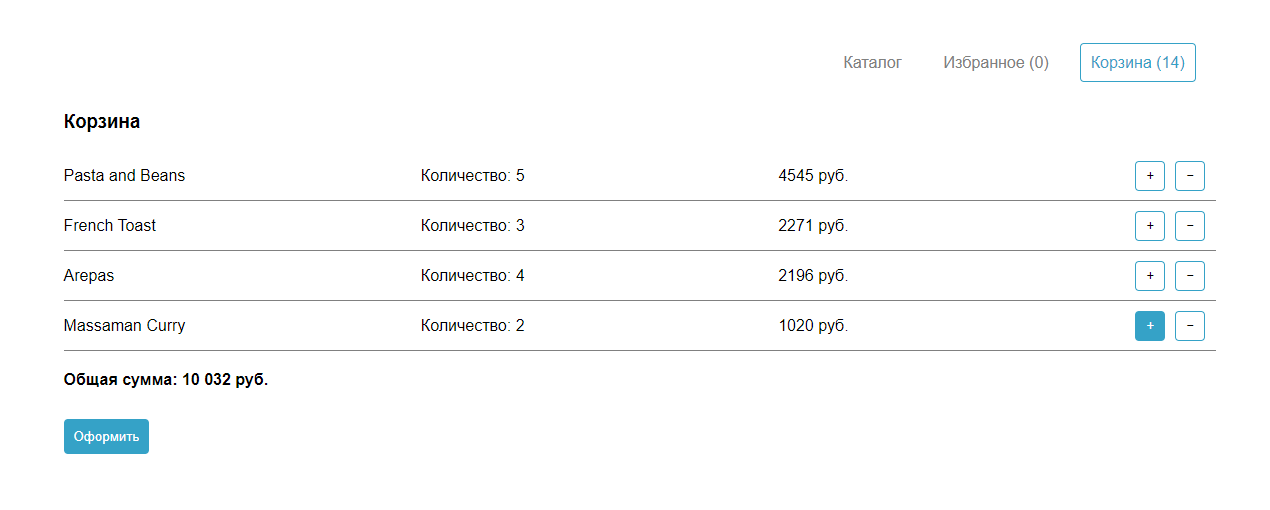
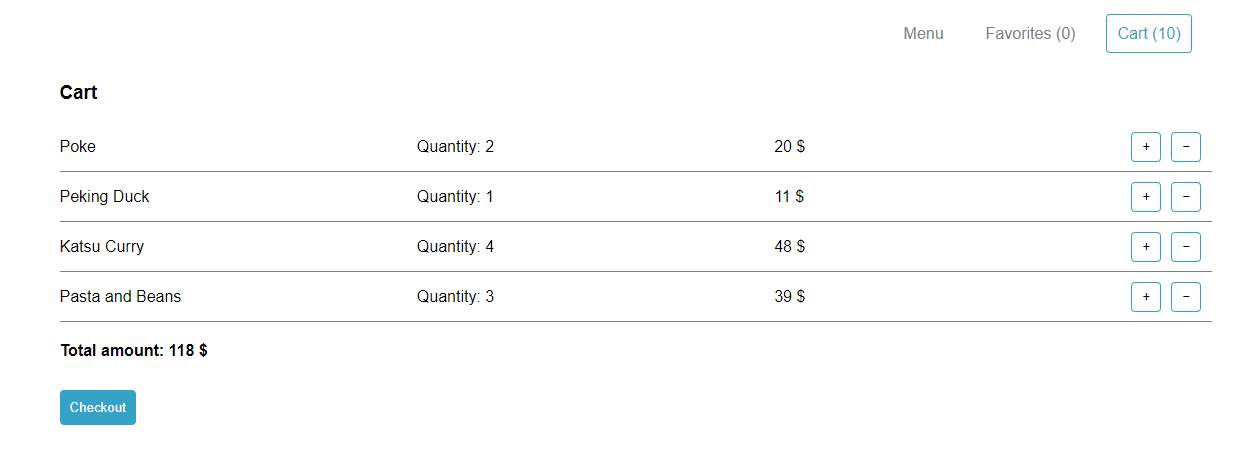
changed readme

diff --git a/src/store/index.js b/src/store/index.js
@@ -1,7 +1,7 @@
-import Vue from 'vue'
-import Vuex from 'vuex'
+import Vue from "vue";
+import Vuex from "vuex";
 
-Vue.use(Vuex)
+Vue.use(Vuex);
 
 const state = {
   products: [],
@@ -11,86 +11,86 @@ const state = {
     6123150777, 6126039472, 6126040354, 6128597660, 6134992334, 6136170572,
     6136172483, 6140906765, 6142673815, 6142681673, 6142683276, 6148226736,
   ],
-}
+};
 
 const getters = {
   total(state, getters) {
     return getters.cartProducts.reduce((total, p) => {
-      return total + p.price * p.quantity
-    }, 0)
+      return total + p.price * p.quantity;
+    }, 0);
   },
   cartProducts: (state) => {
-    return state.products.filter((p) => p.quantity !== 0)
+    return state.products.filter((p) => p.quantity !== 0);
   },
   likedProducts: (state) => {
-    return state.products.filter((p) => p.liked === 'yes')
+    return state.products.filter((p) => p.liked === "yes");
   },
   itemsInCart: (state, getters) => {
     return getters.cartProducts.reduce(
       (accum, item) => accum + item.quantity,
       0
-    )
+    );
   },
   itemsInLiked(state, getters) {
-    return getters.likedProducts.length
+    return getters.likedProducts.length;
   },
-}
+};
 
 const actions = {
   async getProducts({ commit }) {
     let response = await fetch(
-      'https://random-data-api.com/api/food/random_food?size=30'
-    )
+      "https://random-data-api.com/api/food/random_food?size=30"
+    );
     if (response.ok) {
-      let json = await response.json()
-      commit('allProducts', json)
+      let json = await response.json();
+      commit("allProducts", json);
     } else {
-      alert('Ошибка HTTP: ' + response.status)
+      alert("Ошибка HTTP: " + response.status);
     }
   },
-}
+};
 
 const mutations = {
   allProducts: (state, payload) => {
     payload.forEach((el) => {
-      el.price = Math.floor(Math.random() * 500 + 500)
-      el.quantity = 0
-      let rand = Math.floor(Math.random() * state.images.length)
-      el.src = 'images/' + state.images[rand] + '.webp'
-      el.liked = 'no'
-    })
-    state.products = payload
+      el.price = Math.floor(Math.random() * 5 + 10);
+      el.quantity = 0;
+      let rand = Math.floor(Math.random() * state.images.length);
+      el.src = "images/" + state.images[rand] + ".webp";
+      el.liked = "no";
+    });
+    state.products = payload;
   },
 
   addToCart: (state, product) => {
-    const item = state.products.find((p) => p.id === product.id)
-    item.quantity++
+    const item = state.products.find((p) => p.id === product.id);
+    item.quantity++;
   },
 
   removeFromCart: (state, product) => {
-    const item = state.products.find((p) => p.id === product.id)
+    const item = state.products.find((p) => p.id === product.id);
     if (item.quantity > 1) {
-      item.quantity--
+      item.quantity--;
     } else {
-      item.quantity = 0
+      item.quantity = 0;
     }
   },
 
   addToLiked: (state, product) => {
-    const item = state.products.find((p) => p.id === product.id)
+    const item = state.products.find((p) => p.id === product.id);
     if (item) {
-      item.liked = 'yes'
+      item.liked = "yes";
     }
   },
   removeFromLiked: (state, product) => {
-    const item = state.products.find((p) => p.id === product.id)
-    item.liked = 'no'
+    const item = state.products.find((p) => p.id === product.id);
+    item.liked = "no";
   },
-}
+};
 
 export default new Vuex.Store({
   state,
   getters,
   actions,
   mutations,
-})
+});

diff --git a/src/components/Products.vue b/src/components/Products.vue
@@ -4,7 +4,7 @@
       <li v-for="product in products" :key="product.uid" class="product_item">
         <img :src="product.src" class="item_image" />
         <span class="item_name">{{ product.dish }}</span>
-        <span class="item_price">{{ product.price + " руб." }}</span>
+        <span class="item_price">{{ product.price + " $" }}</span>
 
         <div class="product_actions">
           <button
@@ -13,7 +13,7 @@
             class="button item_button add_button"
             @click="addToCart(product)"
           >
-            Добавить
+            Add
           </button>
           <div v-else>
             <button
@@ -41,7 +41,20 @@
             class="button item_button like_button"
             @click="addToLiked(product)"
           >
-            В избранное
+            <svg
+              xmlns="http://www.w3.org/2000/svg"
+              aria-hidden="true"
+              role="img"
+              width="2em"
+              height="2em"
+              preserveAspectRatio="xMidYMid meet"
+              viewBox="0 0 48 48"
+            >
+              <path
+                fill="#FFCDD2"
+                d="M34 9c-4.2 0-7.9 2.1-10 5.4C21.9 11.1 18.2 9 14 9C7.4 9 2 14.4 2 21c0 11.9 22 24 22 24s22-12 22-24c0-6.6-5.4-12-12-12z"
+              />
+            </svg>
           </button>
           <button
             v-if="product.liked === 'yes'"
@@ -49,7 +62,20 @@
             class="button item_button remove_like_button"
             @click="removeFromLiked(product)"
           >
-            Удалить из избранного
+            <svg
+              xmlns="http://www.w3.org/2000/svg"
+              aria-hidden="true"
+              role="img"
+              width="2em"
+              height="2em"
+              preserveAspectRatio="xMidYMid meet"
+              viewBox="0 0 48 48"
+            >
+              <path
+                fill="#F44336"
+                d="M34 9c-4.2 0-7.9 2.1-10 5.4C21.9 11.1 18.2 9 14 9C7.4 9 2 14.4 2 21c0 11.9 22 24 22 24s22-12 22-24c0-6.6-5.4-12-12-12z"
+              />
+            </svg>
           </button>
         </div>
       </li>
@@ -108,13 +134,12 @@ export default {
   padding: 10px;
 }
 .button {
-  background: #fff;
-  border: 1px solid #35a2c7;
   border-radius: 4px;
-}
-.button:hover {
   background: #35a2c7;
   color: #fff;
+  border: none;
+}
+.button:hover {
   border: none;
   cursor: pointer;
 }
@@ -133,10 +158,15 @@ export default {
   width: 30px;
   height: 30px;
 }
-.remove_like_button,
-.like_button,
+
 .add_button {
   width: 120px;
   height: 42px;
+}
+.remove_like_button,
+.like_button {
+  width: 42px;
+  height: 42px;
+  background-color: transparent;
 }
 </style>

diff --git a/src/components/Liked.vue b/src/components/Liked.vue
@@ -1,10 +1,10 @@
 <template>
   <div>
-    <h3 class="title">Избранные товары</h3>
+    <h3 class="title">Favorite products</h3>
 
     <div v-show="!products.length">
-      <p>У вас пока нет избранных товаров!</p>
-      <router-link to="/">Перейти в каталог</router-link>
+      <p>You don't have any favorite products yet!</p>
+      <router-link to="/">Go to catalog</router-link>
     </div>
 
     <div v-show="products.length">
@@ -21,7 +21,7 @@
               class="button item_button add_button"
               @click="addToCart(product)"
             >
-              Добавить
+              Add
             </button>
             <div v-else>
               <button
@@ -48,7 +48,20 @@
               class="button item_button remove_like_button"
               @click="removeFromLiked(product)"
             >
-              Удалить из избранного
+              <svg
+                xmlns="http://www.w3.org/2000/svg"
+                aria-hidden="true"
+                role="img"
+                width="2em"
+                height="2em"
+                preserveAspectRatio="xMidYMid meet"
+                viewBox="0 0 48 48"
+              >
+                <path
+                  fill="#F44336"
+                  d="M34 9c-4.2 0-7.9 2.1-10 5.4C21.9 11.1 18.2 9 14 9C7.4 9 2 14.4 2 21c0 11.9 22 24 22 24s22-12 22-24c0-6.6-5.4-12-12-12z"
+                />
+              </svg>
             </button>
           </div>
         </li>
@@ -103,13 +116,12 @@ export default {
   padding: 10px;
 }
 .button {
-  background: #fff;
-  border: 1px solid #35a2c7;
   border-radius: 4px;
-}
-.button:hover {
   background: #35a2c7;
   color: #fff;
+  border: none;
+}
+.button:hover {
   border: none;
   cursor: pointer;
 }
@@ -128,10 +140,16 @@ export default {
 .remove_button {
   width: 30px;
 }
-.remove_like_button,
-.like_button,
+
 .add_button {
   width: 120px;
   height: 42px;
+}
+
+.remove_like_button,
+.like_button {
+  width: 42px;
+  height: 42px;
+  background-color: transparent;
 }
 </style>

diff --git a/src/components/Cart.vue b/src/components/Cart.vue
@@ -1,9 +1,9 @@
 <template>
   <div>
-    <h3>Корзина</h3>
+    <h3>Cart</h3>
     <div v-show="!products.length">
-      <p>Ваша корзина пуста!</p>
-      <router-link to="/">Продолжить покупки</router-link>
+      <p>Your cart is empty!</p>
+      <router-link to="/">Continue shopping</router-link>
     </div>
 
     <div v-show="products.length">
@@ -11,8 +11,8 @@
         <div v-for="p in products" :key="p.uid">
           <div class="cart_item">
             <span>{{ p.dish }}</span>
-            <span>Количество: {{ p.quantity }}</span>
-            <span> {{ p.price * p.quantity }} руб.</span>
+            <span>Quantity: {{ p.quantity }}</span>
+            <span> {{ p.price * p.quantity }} $ </span>
             <div>
               <button
                 type="button"
@@ -33,13 +33,13 @@
         </div>
       </div>
       <span class="total"
-        >Общая сумма:
-        {{ new Intl.NumberFormat("ru-RU").format(total) }} руб.</span
+        >Total amount:
+        {{ new Intl.NumberFormat("ru-RU").format(total) }} $</span
       >
     </div>
 
     <button v-show="products.length" @click="checkout" class="checkout">
-      Оформить
+      Checkout
     </button>
   </div>
 </template>

diff --git a/src/components/NavBar.vue b/src/components/NavBar.vue
@@ -1,16 +1,16 @@
 <template>
   <nav class="menu">
     <div>
-      <router-link class="router-link" to="/">Каталог</router-link>
+      <router-link class="router-link" to="/">Menu</router-link>
     </div>
     <div>
       <router-link class="router-link" to="/liked"
-        >Избранное ({{ itemsInLiked }})</router-link
+        >Favorites ({{ itemsInLiked }})</router-link
       >
     </div>
     <div>
       <router-link class="router-link" to="/cart"
-        >Корзина ({{ itemsInCart }})</router-link
+        >Cart ({{ itemsInCart }})</router-link
       >
     </div>
   </nav>
